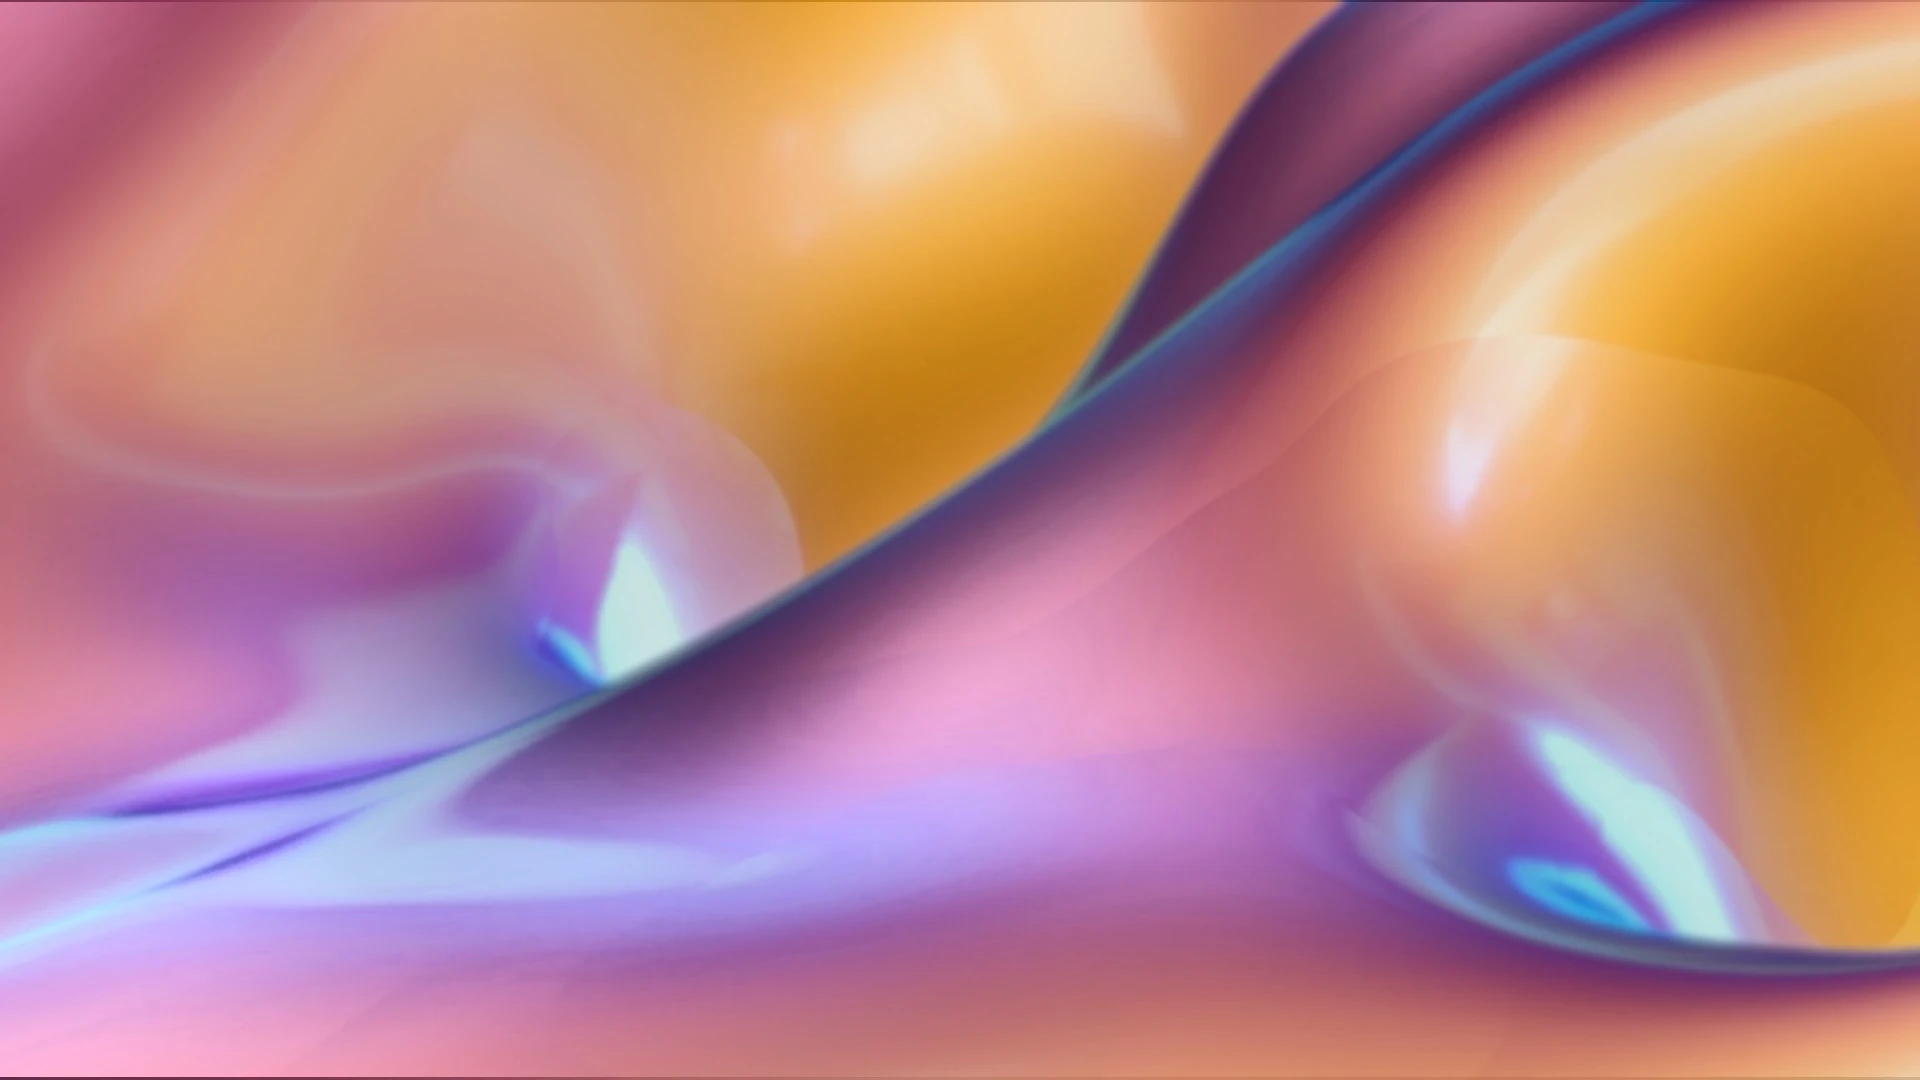
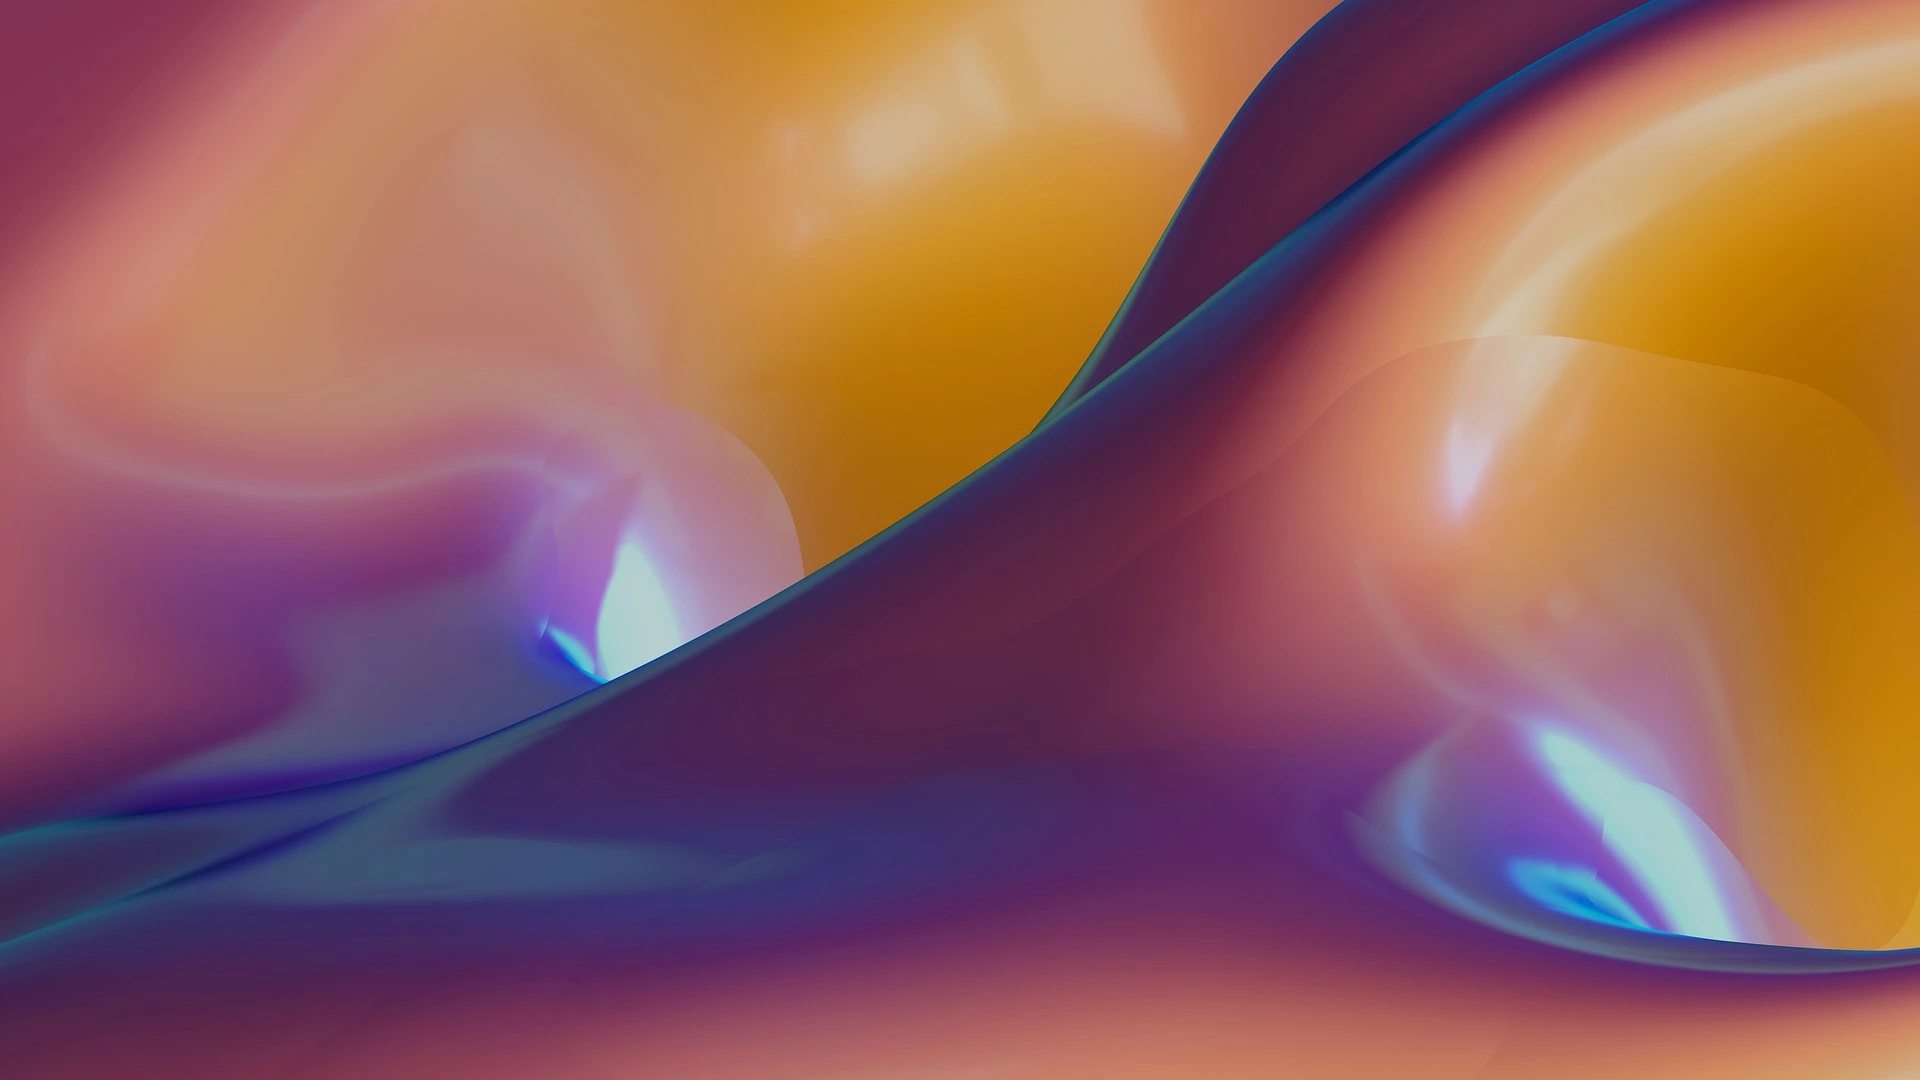
feat:add secondary homepage, Nav, responsive design entry page, link to the homepage

diff --git a/frontend/src/style/pages/_homepage.scss b/frontend/src/style/pages/_homepage.scss
@@ -1,49 +1,24 @@
-.main{
-    height:100%;
+.homepage{
     background-image: url(../../assets/portfolio_background.webp);
+    height:auto;
+    max-height:min-content;
+
     &::before{
         content: "";
         position: absolute;
         width : 100%;
-        height: 100%;
         background: inherit;
+        height:90.7%;
         z-index: -1;
+        box-shadow:inset none;
+        filter        : blur(10px);
+        -moz-filter   : blur(10px);
+        -webkit-filter: blur(10px);
+        -o-filter     : blur(10px);
     
-        // filter        : blur(10px);
-        // -moz-filter   : blur(10px);
-        // -webkit-filter: blur(10px);
-        // -o-filter     : blur(10px);
-    
-        // transition        : all 2s linear;
-        // -moz-transition   : all 2s linear;
-        // -webkit-transition: all 2s linear;
-        // -o-transition     : all 2s linear;
+        transition        : all 2s linear;
+        -moz-transition   : all 2s linear;
+        -webkit-transition: all 2s linear;
+        -o-transition     : all 2s linear;
     }
-
-    &__precision{
-        &--text{
-            color:white;
-            font-size:x-large;
-            font-family: playfair_regular, 'Times New Roman', Times, serif;
-        }
-    }
-    
-    &__text{
-        &--titles{
-            font-family: Mukta-medium, 'Times New Roman', Times, serif;
-        }
-    }
-
-    &__entry{      
-        @media (max-width: 825px) {
-            flex-direction:column;
-            img{
-                width:250px;
-                height:250px;
-            }
-            button{
-                transform:scale(0.6)
-            }
-        }}
-    
 }

diff --git a/frontend/src/pages/EntryPage.jsx b/frontend/src/pages/EntryPage.jsx
@@ -10,16 +10,16 @@ function EntryPage() {
                 <div className="main__text text-center">
                     <h1  className="main__text--titles pt-5">Bienvenue sur mon portfolio</h1>
                     <h2  className="main__text--titles pt-3">Baugard Mathieu</h2>
-                    <Link to="/">
+                    <Link to="/homepage">
                         <p className="main__link pt-2">Visiter sans créer de compte</p>
                     </Link>
                 </div>
                 <section className="main__entry d-flex justify-content-around align-items-center container mt-5 w-50">
-                    <Inscription/>
-                        <img className="" src={logo}></img>
-                    <Connexion/>
+                    <Inscription />
+                    <img src={logo} alt="logo de Mathieu Baugard" />
+                    <Connexion />
                 </section>
-                <div className="main__precision text-center mt-5">
+                <div className="main__precision text-center mt-5 pt-5">
                     <p className="main__precision--text">Une fonctionnalité est mise en place pour l'inscription,<br/>
                        elle répond aux normes RGPD et WCAG.<br/>
                        Aucune information demandée n'a vocation à être vraie</p>

diff --git a/frontend/src/style/pages/_entrypage.scss b/frontend/src/style/pages/_entrypage.scss
@@ -1,0 +1,50 @@
+.main{
+    height:100%;
+    background-image: url(../../assets/portfolio_background.webp);
+    &::before{
+        content: "";
+        position: absolute;
+        width : 100%;
+        height: 100%;
+        background: inherit;
+        z-index: -1;
+    
+        // filter        : blur(10px);
+        // -moz-filter   : blur(10px);
+        // -webkit-filter: blur(10px);
+        // -o-filter     : blur(10px);
+    
+        // transition        : all 2s linear;
+        // -moz-transition   : all 2s linear;
+        // -webkit-transition: all 2s linear;
+        // -o-transition     : all 2s linear;
+    }
+
+    &__precision{
+        &--text{
+            color:white;
+            font-size:x-large;
+            font-family: playfair_regular, 'Times New Roman', Times, serif;
+            margin:0;
+        }
+    }
+    
+    &__text{
+        &--titles{
+            font-family: Mukta-medium, 'Times New Roman', Times, serif;
+        }
+    }
+
+    &__entry{      
+        @media (max-width: 825px) {
+            flex-direction:column;
+            img{
+                width:250px;
+                height:250px;
+            }
+            button{
+                transform:scale(0.6)
+            }
+        }}
+    
+}

diff --git a/frontend/src/components/Nav.jsx b/frontend/src/components/Nav.jsx
@@ -1,0 +1,19 @@
+import React, { useState } from 'react';
+import logo from '../assets/Logo_nav.PNG'
+
+function Nav() {
+    return(
+        <nav className="nav container-fluid d-flex justify-content-between">
+                <div className="nav__left d-flex">
+                    <img className="nav__logo" src={logo} alt="logo de Mathieu Baugard"/>
+                    <p className="nav__name">Mathieu<br/>Baugard</p>
+                </div>
+                <div className="nav__right d-flex">
+                    <button className="nav__button">Télécharger CV</button>
+                    <button className="nav__button">Déconnexion</button>
+                </div>
+        </nav>
+    )
+}
+
+export default Nav;

diff --git a/frontend/src/App.js b/frontend/src/App.js
@@ -2,6 +2,7 @@ import {BrowserRouter as Router, Route, Routes} from 'react-router-dom';
 import EntryPage from './pages/EntryPage';
 import Connexion from './components/Connexion';
 import Inscription from './components/Inscription';
+import Homepage from './pages/Homepage'
 import 'bootstrap/dist/css/bootstrap.min.css';
 
 
@@ -12,6 +13,7 @@ function App() {
                 <Router>
                     <Routes>
                         <Route path='/' element={<EntryPage/>}/>
+                        <Route path='/homepage' element={<Homepage/>}/>
                     </Routes>
                 </Router>
         </>

diff --git a/frontend/src/style/layout/_button.scss b/frontend/src/style/layout/_button.scss
@@ -20,3 +20,28 @@
         }
     }
 }
+.nav{
+    &__button{
+        background-color:$primary-color;
+        border:none;
+        color:white;
+        padding:10px;
+        border-radius:30px;
+        margin-right:30px;
+        &:hover{
+            background-color:$primary-color-hover;
+        }
+    }
+}
+@media (max-width: 565px) {
+    .nav{
+        &__button{
+            transform:scale(0.8);
+            margin-right:-10px;
+        }
+        &__name{
+            display:none;
+        }
+    }
+    
+}

diff --git a/frontend/src/style/layout/_form.scss b/frontend/src/style/layout/_form.scss
@@ -2,6 +2,7 @@
     background-color:$primary-color;
     border-radius:5px;
     color:white;
+    transition:200ms all ease-in;
     span{
         font-size:30px;
         position:relative;
@@ -18,5 +19,14 @@
     }
     &__input{
         margin-bottom:15px;
+    }
+}
+.connexion, .inscription{
+    padding:0 30px 0 30px;
+    transition:200ms all ease-in
+}
+@media (max-width: 565px) {
+    .connexion, .inscription{
+        padding:0;
     }
 }

diff --git a/frontend/src/style/layout/_nav.scss b/frontend/src/style/layout/_nav.scss
@@ -1,0 +1,17 @@
+.nav{
+    background-color:$nav-color;
+    flex-direction:row;
+    align-items:center;
+    &__logo{
+        width:90px;
+        height:90px;
+        padding:10px;
+    }
+    &__name{
+        align-self:center;
+        font-size:26px;
+        color:white;
+        margin:0;
+    }
+}
+

diff --git a/frontend/src/components/Inscription.jsx b/frontend/src/components/Inscription.jsx
@@ -18,7 +18,7 @@ function Inscription() {
   }
 
   return (
-    <div>
+    <div className="inscription">
       {/* Bouton "S'inscrire" qui affiche le formulaire lorsqu'il est cliqué */}
       {buttonVisible && (
         <button onClick={toggleForm} className="main__button">Inscription</button>

diff --git a/frontend/src/components/Connexion.jsx b/frontend/src/components/Connexion.jsx
@@ -21,7 +21,7 @@ function Connexion() {
 
 
   return (
-    <div>
+    <div className="connexion">
       {/* Bouton "S'inscrire" qui affiche le formulaire lorsqu'il est cliqué */}
       {buttonVisible && (
         <button onClick={toggleForm} className="main__button">Connexion</button>

diff --git a/frontend/src/style/utils/variables.scss b/frontend/src/style/utils/variables.scss
@@ -1,11 +1,12 @@
 $primary-color:#1E7072;
 $secondary-color:#567E97;
 $third-color:#978EC1;
+$nav-color:#414848;
 
 $primary-color-contrasted:#3E7887;
 $secondary-color-contrasted:#7285A9;
 
-$third-color-vivified:#E2A0F2;
+$third-color-vivified:#E2A0F2; 
 
 $primary-color-hover:#144849;
 

diff --git a/frontend/src/pages/Homepage.jsx b/frontend/src/pages/Homepage.jsx
@@ -1,0 +1,16 @@
+import React, { useState } from 'react';
+import Nav from '../components/Nav';
+
+function Homepage() {
+    return(
+        <>
+        <Nav />
+        <section className="homepage">
+
+        </section>
+        </>
+    )
+    
+}
+
+export default Homepage;
